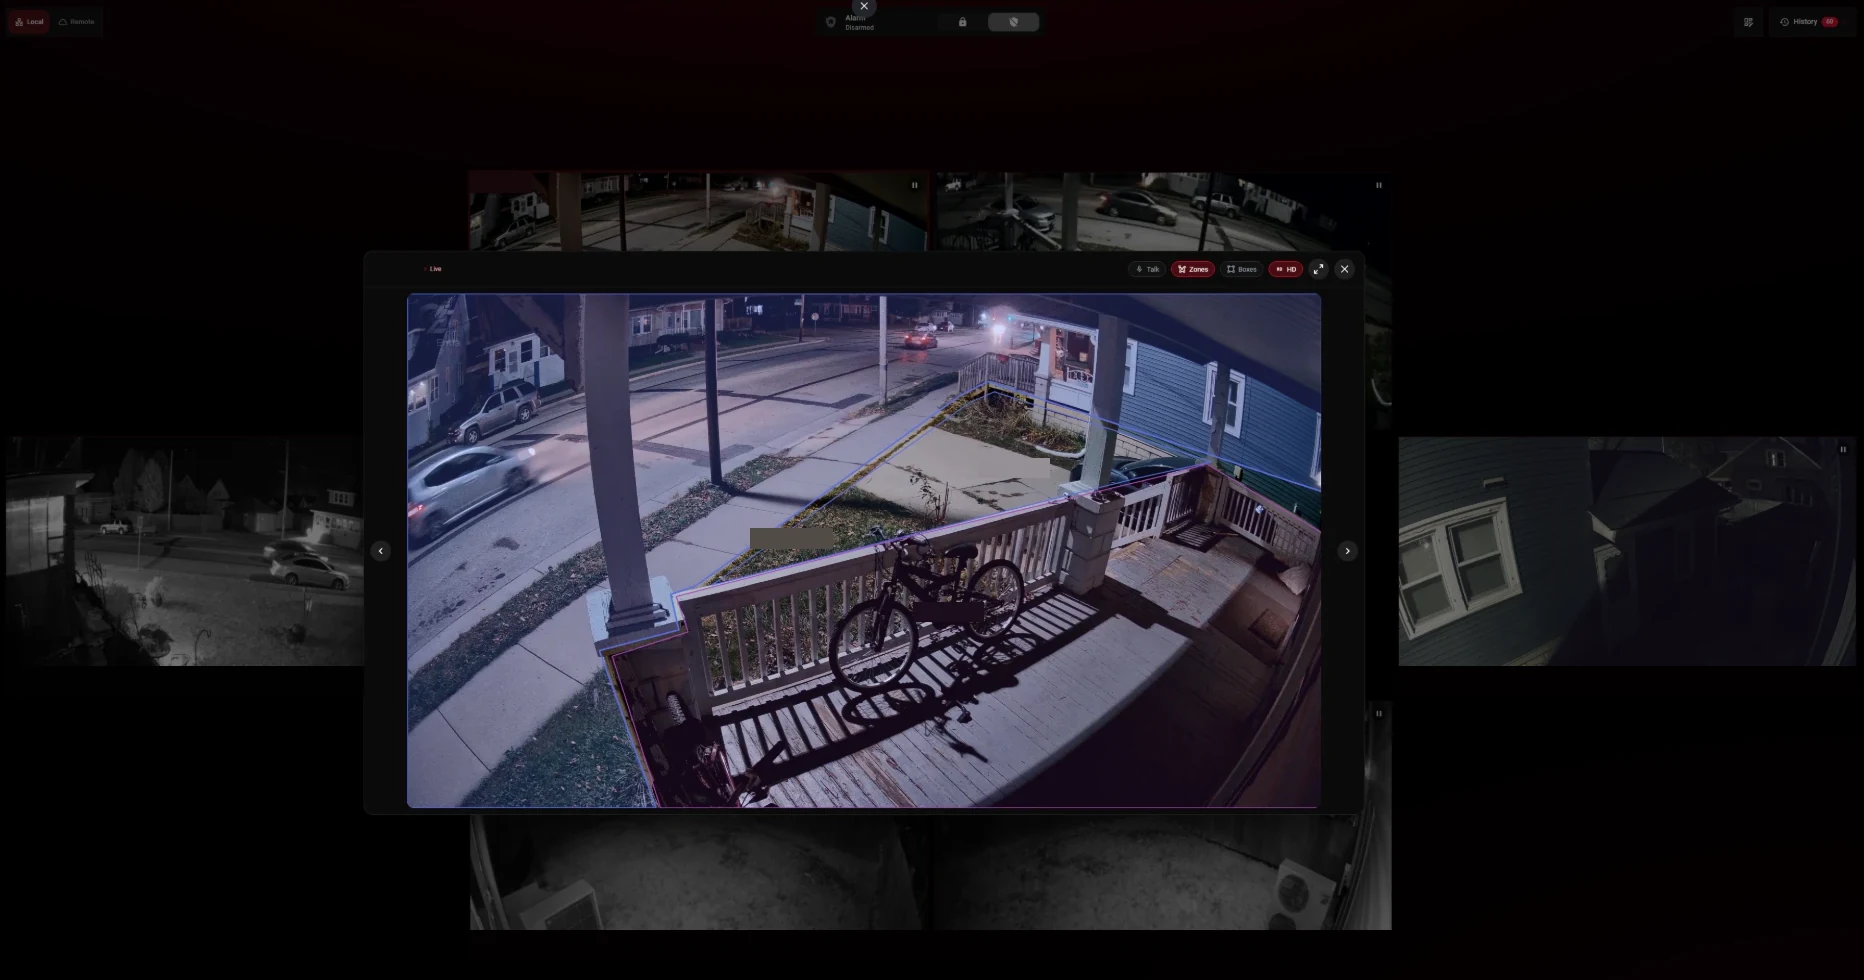
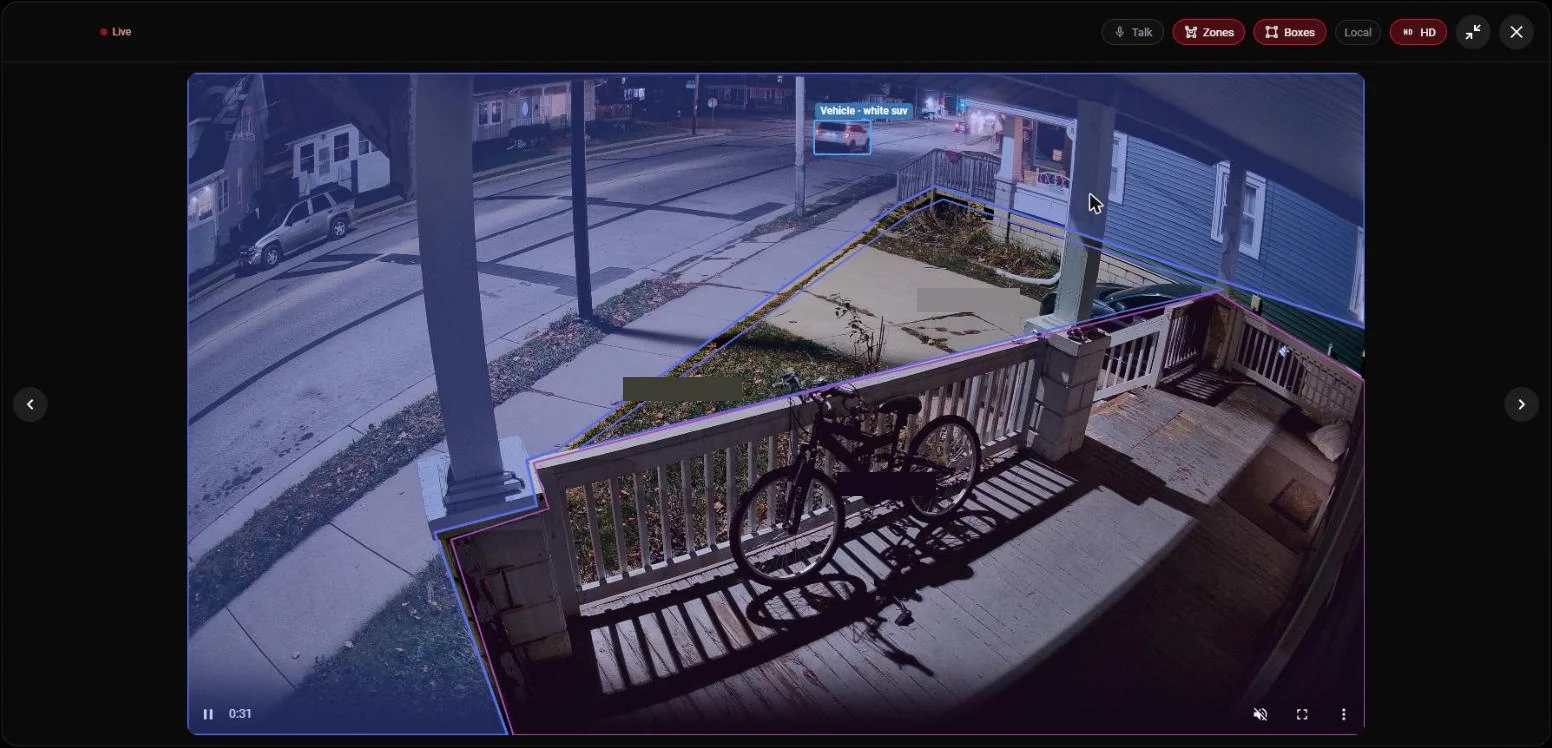
README: new screenshots (wall, live view, the static look)

diff --git a/README.md b/README.md
@@ -16,17 +16,19 @@ It is a companion to Home Assistant's built-in **UniFi Protect** integration. It
 
 | | |
 |---|---|
-| ![The camera wall: six feeds and a tracking tile standing by](docs/images/camera-wall.webp) | ![A camera's live dialog with its zones drawn over the picture](docs/images/live-view-zones.webp) |
-| The camera wall, with a tracking tile standing by | A camera's live dialog, with zones |
+| ![The camera wall: six feeds and a tracking tile standing by](docs/images/camera-wall.webp) | ![A camera's live view with its zones, a box on a passing car, and the chip that picks whose boxes to show](docs/images/live-view-zones.webp) |
+| The camera wall, with a tracking tile standing by | A camera's live view: zones, live boxes, and the Auto / Local / UniFi chip |
 | ![The detection history as a grid of object photos](docs/images/history-grid.webp) | ![A detection's recording playing, with a box and label on a car](docs/images/history-clip.webp) |
 | The detection history | A detection's recording, with Protect's boxes |
+
+![The tracking card standing by in the static look: the live picture in monochrome through red and black static, with the reticle at rest](docs/images/tracking-standby.webp)
+
+The tracking card standing by, in the `static` look.
 
 Camera and zone names are painted out in these pictures.
 
 <!-- screenshot: tracking card standing by, radar look (default options) -->
-<!-- screenshot: tracking card standing by, static look (standby: static, warm: true) -->
 <!-- screenshot: tracking card following a person: reticle brackets, tag, face inset (default options; a person in view) -->
-<!-- screenshot: camera wall live view with Boxes on and the Auto / Local / UniFi chip -->
 
 ## Requirements
 
